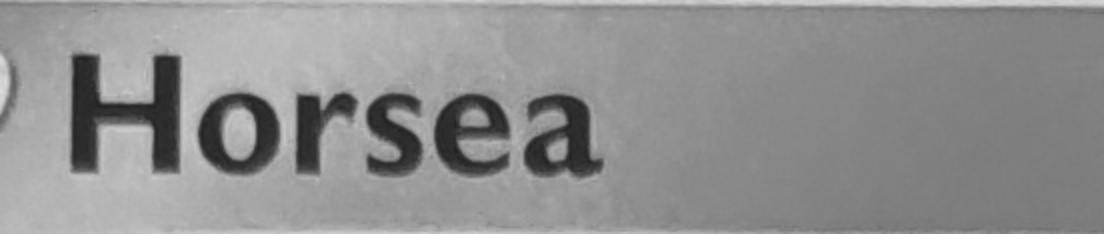
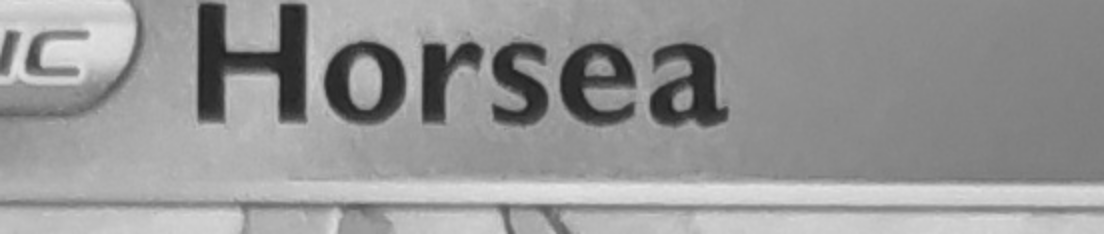
Fix: proper credentials stored after successful photo

diff --git a/Frontend/app/src/main/java/com/example/androidexample/CameraSearchActivity.java b/Frontend/app/src/main/java/com/example/androidexample/CameraSearchActivity.java
@@ -50,10 +50,15 @@ import java.io.OutputStream;
 import okhttp3.OkHttpClient;
 import ua.naiksoftware.stomp.Stomp;
 import ua.naiksoftware.stomp.StompClient;
+import android.os.Bundle;
+
 
 
 public class CameraSearchActivity extends AppCompatActivity {
     private PreviewView previewView;
+    private String  username;
+    private int  id;
+    private boolean isAdmin;
     private ImageButton captureButton;
     private ImageButton backtoSearchButton;
     private ImageCapture imageCapture;
@@ -69,6 +74,13 @@ public class CameraSearchActivity extends AppCompatActivity {
         previewView = findViewById(R.id.cameraSearch_previewView);
         captureButton = findViewById(R.id.cameraSearch_camera_capture_btn);
         backtoSearchButton = findViewById(R.id.cameraSearch_back_btn);
+
+        Bundle extras = getIntent().getExtras();
+        if (extras != null) {
+            username = extras.getString("username");
+            id       = extras.getInt("id", -1);
+            isAdmin  = extras.getBoolean("isAdmin", false);
+        }
 
         ActivityCompat.requestPermissions(this, new String[]{Manifest.permission.CAMERA}, CAMERA_PERMISSION_CODE);
 
@@ -118,14 +130,19 @@ public class CameraSearchActivity extends AppCompatActivity {
                     JSONObject card = topCard.getJSONObject("card");
                     int bundleCardID = card.getInt("id");
                     String returnedCardName = card.getString("cardName");
-                    Intent intent = new Intent(CameraSearchActivity.this, CardSearchActivity.class);
-                    intent.putExtra("bundleCardID", bundleCardID);
-                    startActivity(intent);
 
+                    runOnUiThread(() -> {
+                        Toast.makeText(getApplicationContext(), "Match: " + returnedCardName + " Confidence: " + confidence, Toast.LENGTH_LONG).show();
 
-                    runOnUiThread(() -> Toast.makeText(getApplicationContext(), "Match: " + returnedCardName +
-                            "Confidence: " + confidence, Toast.LENGTH_LONG).show());
-                    Log.d("STOMP", "Match: " + returnedCardName + "Confidence: " + confidence);
+                        Intent intent = new Intent(CameraSearchActivity.this, CardSearchActivity.class);
+                        intent.putExtra("bundleCardID", bundleCardID);
+                        intent.putExtra("id", id);
+                        intent.putExtra("username", username);
+                        intent.putExtra("isAdmin", isAdmin);
+                        startActivity(intent);
+
+                        Log.d("STOMP", "Match: " + returnedCardName + " Confidence: " + confidence);
+                    });
                 } else {
                     runOnUiThread(() -> Toast.makeText(getApplicationContext(), "No match" + msg, Toast.LENGTH_LONG).show());
                     Log.d("STOMP", "No match " + msg);

diff --git a/Frontend/app/src/main/java/com/example/androidexample/CardSearchActivity.java b/Frontend/app/src/main/java/com/example/androidexample/CardSearchActivity.java
@@ -122,6 +122,9 @@ public class CardSearchActivity extends AppCompatActivity {
         }
         cameraSearch.setOnClickListener(v -> {
             Intent intent = new Intent(CardSearchActivity.this, CameraSearchActivity.class);
+            intent.putExtra("id", id);
+            intent.putExtra("username", username);
+            intent.putExtra("isAdmin", isAdmin);
             startActivity(intent);
         });
 